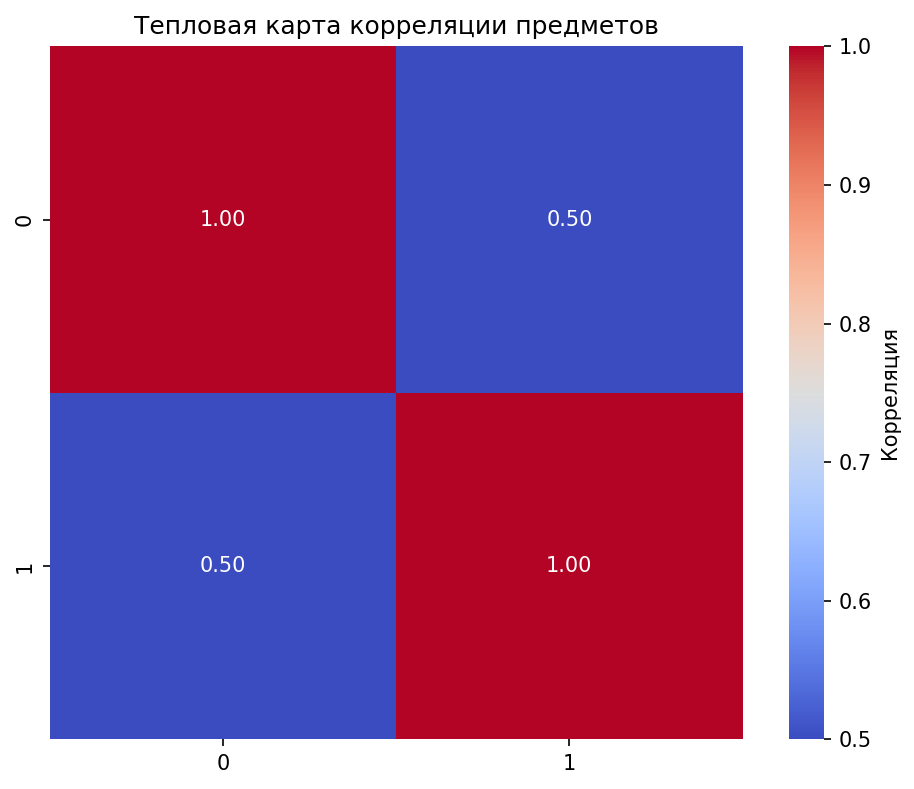
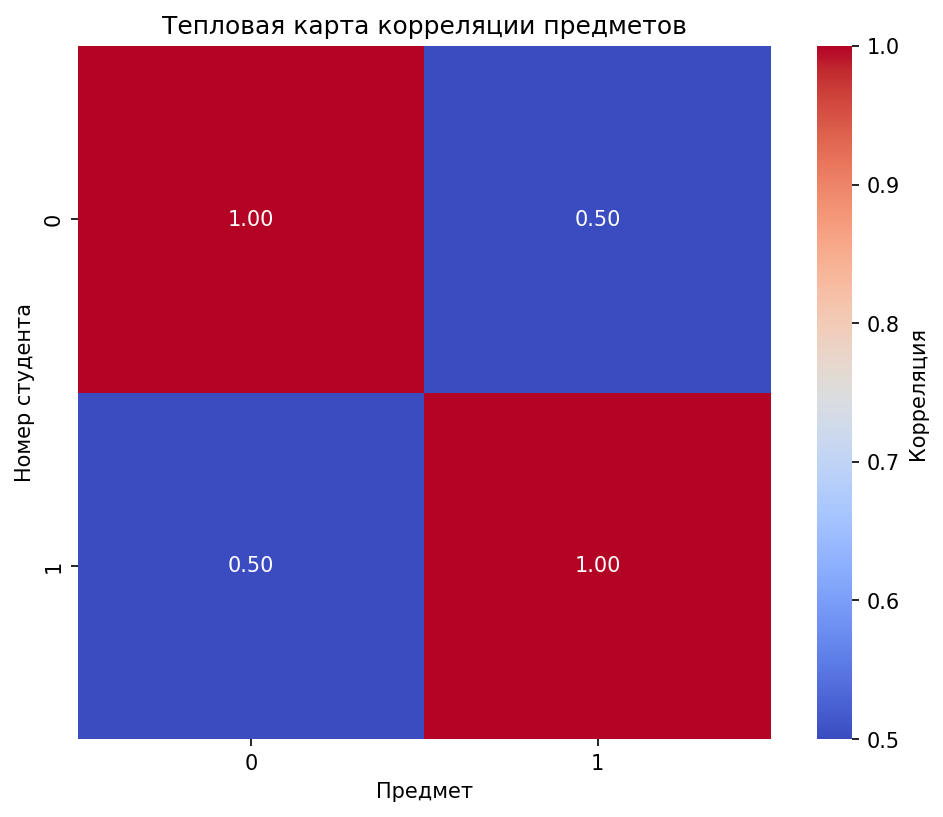
a litle changes

diff --git a/code/LR-2/main.py b/code/LR-2/main.py
@@ -225,13 +225,11 @@ def plot_histogram(data: np.ndarray) -> None:
     Args:
         data (numpy.ndarray): Данные для гистограммы
     """
-    os.makedirs("plots", exist_ok=True)
     plt.figure(figsize=(8, 6))
     plt.hist(data, bins=4, edgecolor='black', color='skyblue', density=False)
     plt.title("Гистограмма распределения оценок по математике")
     plt.xlabel("Оценка")
     plt.ylabel("Количество студентов")
-    plt.gca().yaxis.set_major_locator(MaxNLocator(integer=True))
     plt.savefig("plots/histogram.png", dpi=150, bbox_inches='tight')
     plt.close()
 
@@ -243,9 +241,10 @@ def plot_heatmap(data: np.ndarray) -> None:
     Args:
         matrix (numpy.ndarray): Матрица корреляции
     """
-    os.makedirs("plots", exist_ok=True)
     plt.figure(figsize=(8, 6))
     sns.heatmap(data, annot=True, fmt=".2f", cmap="coolwarm", square=True, cbar_kws={"label": "Корреляция"})
+    plt.xlabel("Предмет")
+    plt.ylabel("Номер студента")
     plt.title("Тепловая карта корреляции предметов")
     plt.savefig("plots/heatmap.png", dpi=150, bbox_inches='tight')
     plt.close()
@@ -259,13 +258,11 @@ def plot_line(x: np.ndarray, y: np.ndarray) -> None:
         x (numpy.ndarray): Номера студентов
         y (numpy.ndarray): Оценки студентов
     """
-    os.makedirs("plots", exist_ok=True)
     plt.figure(figsize=(8, 6))
     plt.plot(x, y, marker='o', linestyle='-', color='green', linewidth=2, markersize=8)
     plt.title("Зависимость оценки по математике от номера студента")
     plt.xlabel("Номер студента")
     plt.ylabel("Оценка по математике")
-    plt.grid(True, alpha=0.3)
     plt.savefig("plots/plot_line.png", dpi=150, bbox_inches='tight')
     plt.close()
 
@@ -279,8 +276,7 @@ if __name__ == "__main__":
 
     # 2. Тепловая карта корреляции
     data_numeric = data
-    corr_matrix = np.corrcoef(data_numeric.T)
-    plot_heatmap(corr_matrix)
+    plot_heatmap(data_numeric)
 
     # 3. Линейный график
     student_ids = np.arange(1, len(math_scores) + 1)
